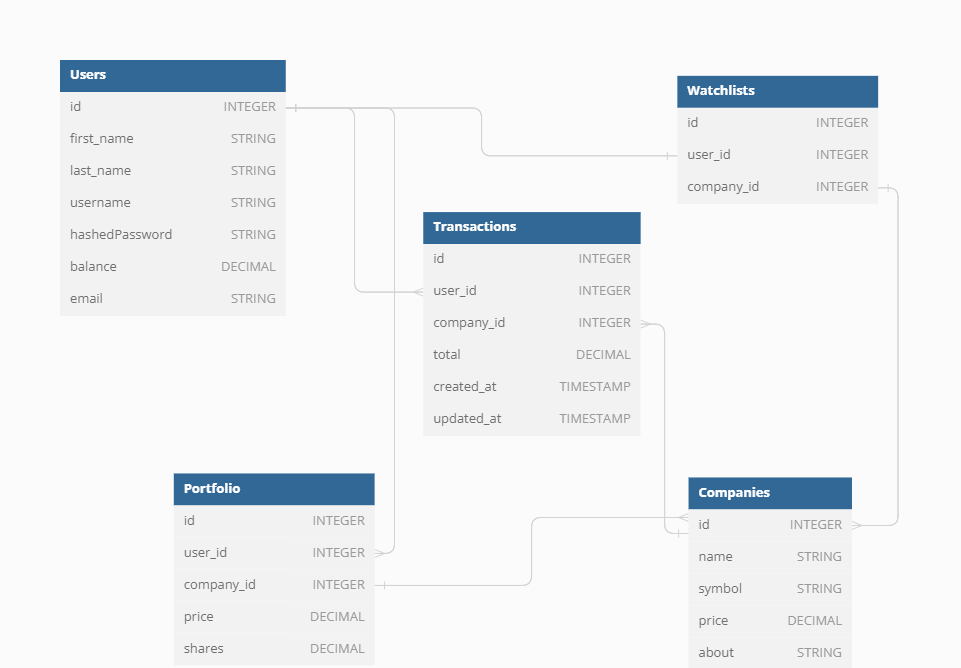
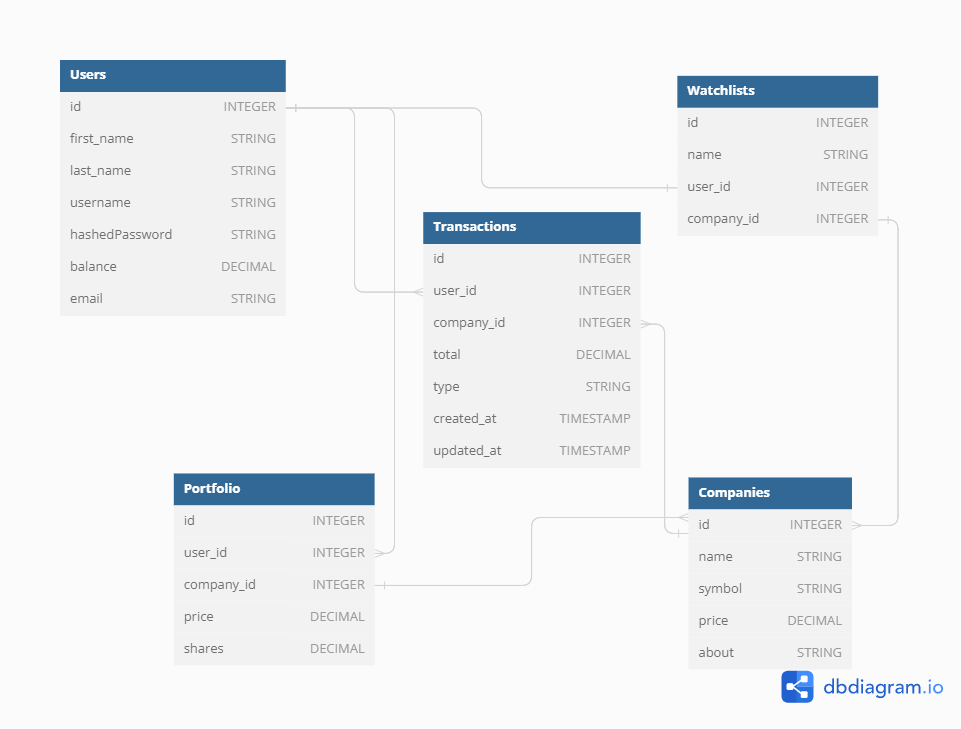
seeder data fixed and added name column to watchlists

diff --git a/legolas-project/app/seeds/watchlists.py b/legolas-project/app/seeds/watchlists.py
@@ -6,19 +6,19 @@ from sqlalchemy.sql import text
 # Adds watchlists, you can add other watchlists here if you want
 def seed_watchlists():
     demo_watchlist1 = Watchlist(
-        user_id=1, company_id=1)
+        user_id=1, name='Companies to Watch1', company_id=1)
     demo_watchlist2 = Watchlist(
-        user_id=2, company_id=2)
+        user_id=2, name='Companies to Watch2', company_id=2)
     demo_watchlist3 = Watchlist(
-        user_id=3, company_id=3)
+        user_id=3, name='Companies to Watch3', company_id=3)
     demo_watchlist4 = Watchlist(
-        user_id=2, company_id=4)
+        user_id=4, name='Companies to Watch4', company_id=4)
     demo_watchlist5 = Watchlist(
-        user_id=2, company_id=5)
+        user_id=5, name='Companies to Watch5', company_id=5)
     demo_watchlist6 = Watchlist(
-        user_id=1, company_id=6)
+        user_id=6, name='Companies to Watch6', company_id=6)
     demo_watchlist7 = Watchlist(
-        user_id=3, company_id=7)
+        user_id=7, name='Companies to Watch7', company_id=7)
 
     db.session.add(demo_watchlist1)
     db.session.add(demo_watchlist2)

diff --git a/legolas-project/migrations/versions/550a8118aa5d_initial_migration.py b/legolas-project/migrations/versions/550a8118aa5d_initial_migration.py
@@ -1,7 +1,7 @@
 """Initial migration.
 
 Revision ID: 550a8118aa5d
-Revises: 
+Revises:
 Create Date: 2023-11-18 10:42:50.864627
 
 """
@@ -61,6 +61,7 @@ def upgrade():
     )
     op.create_table('watchlists',
     sa.Column('id', sa.Integer(), nullable=False),
+    sa.Column('name', sa.String(length=50), nullable=False),
     sa.Column('user_id', sa.Integer(), nullable=False),
     sa.Column('company_id', sa.Integer(), nullable=False),
     sa.ForeignKeyConstraint(['company_id'], ['companies.id'], ),

diff --git a/legolas-project/app/models/watchlist.py b/legolas-project/app/models/watchlist.py
@@ -8,6 +8,7 @@ class Watchlist(db.Model):
         __table_args__ = {'schema': SCHEMA}
 
     id = db.Column(db.Integer, primary_key=True)
+    name = db.Column(db.String(50))
     user_id = db.Column(db.Integer, db.ForeignKey('users.id'), nullable=False)
     company_id = db.Column(db.Integer, db.ForeignKey(
         'companies.id'), nullable=False)
